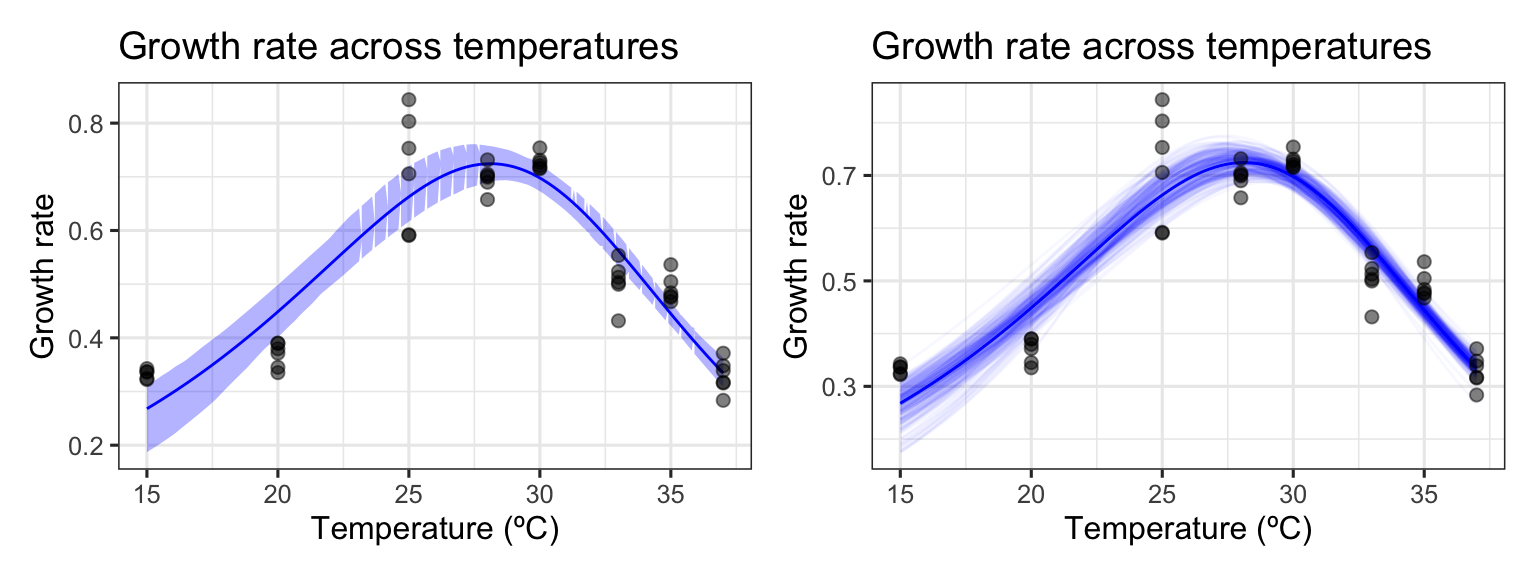
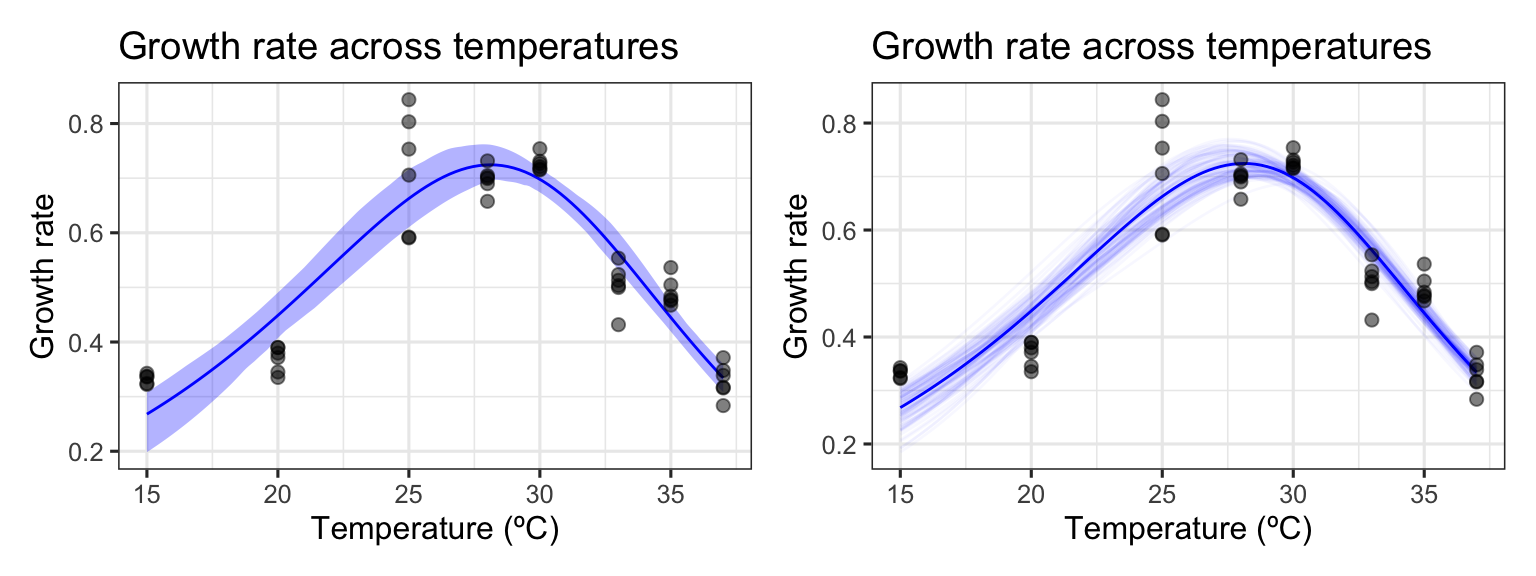
Update bootstrap vignette

diff --git a/docs/articles/bootstrapping_models.html b/docs/articles/bootstrapping_models.html
@@ -114,7 +114,7 @@
       <h1 data-toc-skip>Bootstrapping using rTPC</h1>
                         <h4 class="author">Daniel Padfield</h4>
             
-            <h4 class="date">2020-07-20</h4>
+            <h4 class="date">2020-07-22</h4>
       
       <small class="dont-index">Source: <a href="https://github.com/padpadpadpad/rTPC/blob/master/vignettes/bootstrapping_models.Rmd"><code>vignettes/bootstrapping_models.Rmd</code></a></small>
       <div class="hidden name"><code>bootstrapping_models.Rmd</code></div>
@@ -210,7 +210,7 @@
        <span class="kw">title</span> <span class="kw">=</span> <span class="st">'Growth rate across temperatures'</span>)</pre></body></html></div>
 <p><img src="bootstrapping_models_files/figure-html/fit_and_plot-1.png" width="576" style="display: block; margin: auto;"> Here we have the best fit to the data. If we want confidence bands around this prediction, we can get those by resampling the data a number of times. To illustrate this approach, I will create 250 bootstraps of the data and fit separate models to each using the <strong>modelr</strong> package. We will create a progress bar as used in <code>vignette(fit_many_curves)</code> to track the progress of the fit.</p>
 <div class="sourceCode" id="cb4"><html><body><pre class="r"><span class="co"># number of boots</span>
-<span class="no">n_boots</span> <span class="kw">&lt;-</span> <span class="fl">250</span>
+<span class="no">n_boots</span> <span class="kw">&lt;-</span> <span class="fl">100</span>
 
 <span class="co"># create new datasets and prepare them for fitting</span>
 <span class="no">d_boots</span> <span class="kw">&lt;-</span> <span class="fu">group_by</span>(<span class="no">d</span>, <span class="no">phage</span>) <span class="kw">%&gt;%</span>
@@ -243,7 +243,7 @@
                   <span class="kw">preds</span> <span class="kw">=</span>  <span class="fu">map2</span>(<span class="no">refit</span>, <span class="no">new_data</span>, ~<span class="fu"><a href="https://broom.tidymodels.org/reference/reexports.html">augment</a></span>(<span class="no">.x</span>, <span class="kw">newdata</span> <span class="kw">=</span> <span class="no">.y</span>)))</pre></body></html></div>
 <pre><code>[=========================================================] 100% 00:02:04</code></pre>
 <div class="sourceCode" id="cb6"><html><body><pre class="r"><span class="fu">glimpse</span>(<span class="no">d_boots</span>)
-<span class="co">#&gt; Rows: 250</span>
+<span class="co">#&gt; Rows: 100</span>
 <span class="co">#&gt; Columns: 6</span>
 <span class="co">#&gt; $ phage    &lt;chr&gt; "nophage", "nophage", "nophage", "nophage", "nophage", "noph…</span>
 <span class="co">#&gt; $ strap    &lt;list&gt; [&lt;data.frame[47 x 3]&gt;, &lt;data.frame[47 x 3]&gt;, &lt;data.frame[47…</span>
@@ -293,7 +293,7 @@
 <span class="no">d2</span> <span class="kw">&lt;-</span> <span class="fu"><a href="https://rdrr.io/r/stats/filter.html">filter</a></span>(<span class="no">chlorella_tpc</span>, <span class="no">curve_id</span> <span class="kw">==</span> <span class="fl">1</span>)
 
 <span class="co"># number of boots</span>
-<span class="no">n_boots</span> <span class="kw">&lt;-</span> <span class="fl">250</span>
+<span class="no">n_boots</span> <span class="kw">&lt;-</span> <span class="fl">100</span>
 
 <span class="co"># create new datasets and prepare them for fitting</span>
 <span class="no">d_boots</span> <span class="kw">&lt;-</span> <span class="fu">group_by</span>(<span class="no">d2</span>, <span class="no">curve_id</span>) <span class="kw">%&gt;%</span>
@@ -316,7 +316,7 @@
   <span class="fu">theme</span>(<span class="kw">strip.background</span> <span class="kw">=</span> <span class="fu">element_blank</span>(),
         <span class="kw">strip.text</span> <span class="kw">=</span> <span class="fu">element_text</span>(<span class="kw">hjust</span> <span class="kw">=</span> <span class="fl">0</span>))</pre></body></html></div>
 <p><img src="bootstrapping_models_files/figure-html/bootstrap_models2_plot-1.png" width="768" style="display: block; margin: auto;"></p>
-<p>By plotting some of the bootstrapped datasets, we can see which points of the original data were resampled (darker points). There are many different curves that can come from these resampled curves. This is likely to be a bigger problem when there is only one point beyond the optimum of the curve. We can see how much of a problem this is when we model the raw data and the bootstrapped data as before.</p>
+<p>By plotting some of the bootstrapped datasets, we can see which points of the original data were resampled (darker points). There are many different curves that can come from these resampled curves. This is likely to be a bigger problem when there is only one point beyond the optimum of the curve. We can see how much of a problem this is when we model the raw data and the bootstrapped data as before. As I cannot guarantee that there are not instances when there are only two or three different temperatures re-sampled, <strong>nls_multstart</strong> and some of the helper functions in <strong>rTPC</strong> such as <strong>get_start_vals</strong> may fail as the re-sampled data does not validate some of the assumptions of these functions. Consequently we create a <strong>nls_multstart_safe</strong> that returns NAs when <strong>nls_multstart</strong> errors, instead returning <code>NA</code> for that model fit.</p>
 <p>As before, the model predictions of each bootstrap are taken only from the range of temperatures of that bootstrapped dataset, not the range of values of the raw dataset.</p>
 <div class="sourceCode" id="cb9"><html><body><pre class="r"><span class="co"># fit Sharpe-Schoolfield model to raw data</span>
 <span class="no">d_fit</span> <span class="kw">&lt;-</span> <span class="fu">nest</span>(<span class="no">d2</span>, <span class="kw">data</span> <span class="kw">=</span> <span class="fu"><a href="https://rdrr.io/r/base/c.html">c</a></span>(<span class="no">temp</span>, <span class="no">rate</span>)) <span class="kw">%&gt;%</span>
@@ -352,28 +352,7 @@
                         <span class="kw">start_upper</span> <span class="kw">=</span> <span class="fu"><a href="../reference/get_start_vals.html">get_start_vals</a></span>(<span class="no">.x</span>$<span class="no">temp</span>, <span class="no">.x</span>$<span class="no">rate</span>, <span class="kw">model_name</span> <span class="kw">=</span> <span class="st">'sharpeschoolhigh_1981'</span>) + <span class="fl">10</span>,
                         <span class="kw">lower</span> <span class="kw">=</span> <span class="fu"><a href="../reference/get_lower_lims.html">get_lower_lims</a></span>(<span class="no">.x</span>$<span class="no">temp</span>, <span class="no">.x</span>$<span class="no">rate</span>, <span class="kw">model_name</span> <span class="kw">=</span> <span class="st">'sharpeschoolhigh_1981'</span>),
                         <span class="kw">upper</span> <span class="kw">=</span> <span class="fu"><a href="../reference/get_upper_lims.html">get_upper_lims</a></span>(<span class="no">.x</span>$<span class="no">temp</span>, <span class="no">.x</span>$<span class="no">rate</span>, <span class="kw">model_name</span> <span class="kw">=</span> <span class="st">'sharpeschoolhigh_1981'</span>),
-                        <span class="kw">supp_errors</span> <span class="kw">=</span> <span class="st">'Y'</span>,
-                        <span class="kw">convergence_count</span> <span class="kw">=</span> <span class="fl">FALSE</span>)))
-<span class="co">#&gt; Warning in runif(iter, .x, .y): NAs produced</span>
-
-<span class="co">#&gt; Warning in runif(iter, .x, .y): NAs produced</span>
-
-<span class="co">#&gt; Warning in runif(iter, .x, .y): NAs produced</span>
-
-<span class="co">#&gt; Warning in runif(iter, .x, .y): NAs produced</span>
-
-<span class="co">#&gt; Warning in runif(iter, .x, .y): NAs produced</span>
-
-<span class="co">#&gt; Warning in runif(iter, .x, .y): NAs produced</span>
-
-<span class="co">#&gt; Warning in runif(iter, .x, .y): NAs produced</span>
-
-<span class="co">#&gt; Warning in runif(iter, .x, .y): NAs produced</span>
-
-<span class="co">#&gt; Warning in runif(iter, .x, .y): NAs produced</span>
-
-<span class="co">#&gt; Warning in runif(iter, .x, .y): NAs produced</span>
-
+                        <span class="kw">supp_errors</span> <span class="kw">=</span> <span class="st">'Y'</span>)))
 <span class="co">#&gt; Warning in runif(iter, .x, .y): NAs produced</span>
 
 <span class="co">#&gt; Warning in runif(iter, .x, .y): NAs produced</span>
@@ -383,7 +362,7 @@
 <span class="co"># remove fits that are NA</span>
 <span class="no">d_boots</span> <span class="kw">&lt;-</span> <span class="fu"><a href="https://rdrr.io/r/stats/filter.html">filter</a></span>(<span class="no">d_boots</span>, !<span class="fu"><a href="https://rdrr.io/r/base/NA.html">is.na</a></span>(<span class="no">refit</span>))
 <span class="fu"><a href="https://rdrr.io/r/base/nrow.html">nrow</a></span>(<span class="no">d_boots</span>)
-<span class="co">#&gt; [1] 237</span>
+<span class="co">#&gt; [1] 100</span>
 
 <span class="co"># create new temperature data</span>
 <span class="no">d_boots</span> <span class="kw">&lt;-</span> <span class="fu">mutate</span>(<span class="no">d_boots</span>, <span class="kw">new_data</span> <span class="kw">=</span> <span class="fu">map</span>(<span class="no">strap</span>, ~<span class="fu">tibble</span>(<span class="kw">temp</span> <span class="kw">=</span> <span class="fu"><a href="https://rdrr.io/r/base/seq.html">seq</a></span>(<span class="fu"><a href="https://rdrr.io/r/base/Extremes.html">min</a></span>(<span class="no">.x</span>$<span class="no">temp</span>), <span class="fu"><a href="https://rdrr.io/r/base/Extremes.html">max</a></span>(<span class="no">.x</span>$<span class="no">temp</span>), <span class="kw">by</span> <span class="kw">=</span> <span class="fl">0.1</span>))),
@@ -404,12 +383,12 @@
 <span class="co">#&gt; # A tibble: 6 x 3</span>
 <span class="co">#&gt;    temp conf_lower conf_upper</span>
 <span class="co">#&gt;   &lt;dbl&gt;      &lt;dbl&gt;      &lt;dbl&gt;</span>
-<span class="co">#&gt; 1  16        0.114      0.331</span>
-<span class="co">#&gt; 2  16.1      0.116      0.333</span>
-<span class="co">#&gt; 3  16.2      0.118      0.335</span>
-<span class="co">#&gt; 4  16.3      0.121      0.338</span>
-<span class="co">#&gt; 5  16.4      0.123      0.340</span>
-<span class="co">#&gt; 6  16.5      0.125      0.343</span>
+<span class="co">#&gt; 1  16       0.0825      0.333</span>
+<span class="co">#&gt; 2  16.1     0.0853      0.335</span>
+<span class="co">#&gt; 3  16.2     0.0881      0.338</span>
+<span class="co">#&gt; 4  16.3     0.0909      0.340</span>
+<span class="co">#&gt; 5  16.4     0.0939      0.342</span>
+<span class="co">#&gt; 6  16.5     0.0961      0.345</span>
 
 <span class="co"># unnest all predictions</span>
 <span class="no">d_boot_preds</span> <span class="kw">&lt;-</span> <span class="fu">select</span>(<span class="no">d_boots</span>, <span class="no">boot_num</span>, <span class="no">preds</span>) <span class="kw">%&gt;%</span>
@@ -441,12 +420,149 @@
 
 <span class="no">p1</span> + <span class="no">p2</span></pre></body></html></div>
 <p><img src="bootstrapping_models_files/figure-html/bootstrap_models2-1.png" width="768" style="display: block; margin: auto;"></p>
-<p>As can be seen, bootstrapping-with-replacement with only a single point at each temperature can lead to a large variety of fits. In the second panel, we can see the variety of the curve fits, clustering around 4 possible paths for the decrease in rate beyond the optimum temperature. This makes the uncertainty around these predictions, and the derived estimate <span class="math inline">\(E_h\)</span> highly uncertain using this method of bootstrapping.</p>
+<p>As can be seen, bootstrapping-with-replacement with only a single point at each temperature can lead to a large variety of fits. In the second panel, we can see the variety of the curve fits, clustering around 4 possible paths for the decrease in rate beyond the optimum temperature. This makes the uncertainty around these predictions, and the estimate of <span class="math inline">\(E_h\)</span> is highly uncertain using this method of bootstrapping.</p>
 </div>
-<div id="resampling-residuals" class="section level1">
+<div id="re-sampling-residuals" class="section level1">
 <h1 class="hasAnchor">
-<a href="#resampling-residuals" class="anchor"></a>Resampling residuals</h1>
-<p>Re-sampling the data with replacement is the most common way of thinking about bootstrapping. However, bootstrapping ordinary least squares regression models is often done using bootstrapping residuals.</p>
+<a href="#re-sampling-residuals" class="anchor"></a>Re-sampling residuals</h1>
+<p>Re-sampling the data with replacement is the most common way of thinking about bootstrapping. However, bootstrapping ordinary least squares regression models is often done using bootstrapping residuals. This method - where the values of the predictors in a study remain fixed during re-sampling - is especially useful in a designed experiment where the values of the predictors are set by the experimenter. This is overwhelmingly the most common case when measuring thermal performance curves, where it is common to have only a single data point per temperature.</p>
+<p>Re-sampling residuals, at its heart, follows a simple set of steps:</p>
+<ol style="list-style-type: decimal">
+<li>Fit the model and for each data point, <span class="math inline">\(i\)</span>, retain the fitted values <span class="math inline">\(\hat{y_{i}}\)</span> and the residuals, <span class="math inline">\(\hat{e_{i}} = y_{i} - \hat{y_{i}}\)</span>
+</li>
+<li>For each data pair, (<span class="math inline">\(x_i\)</span>, <span class="math inline">\(y_i\)</span>), where <span class="math inline">\(x_i\)</span> is the measured temperature value, we add a randomly re-sampled residual, <span class="math inline">\(\hat{e}\)</span> to the fitted value <span class="math inline">\(\hat{y_i}\)</span>. This becomes the new <span class="math inline">\(y_i\)</span> value, such that <span class="math inline">\(y_i = \hat{y_i} + \hat{e}\)</span>. The new response variable is created based on the random re-allocation of the variation around the original model fit</li>
+<li>The model is refit using the newly created <span class="math inline">\(y_i\)</span> response variable</li>
+<li>Repeat steps 2 and 3 a number of times</li>
+</ol>
+<p>This method makes the assumption that the original model fit is a good representation of the data, and that the error terms in the model are normally distributed and independent. If the model is incorrectly specified – for example, if there is unmodelled non-linearity, non-constant error variance, or outliers – these characteristics will not carry over into the re-sampled data sets.</p>
+<p>Furthermore, there is evidence that the confidence intervals created using this method are often narrower than using the data re-sampling approach, which will increase the false positive error rate if confidence interval estimates are used as a proxy for significance testing. We consequently recommend using residual re-sampling with caution, but it can be very useful for the reasons above.</p>
+<p>We can demonstrate this approach using the <code>chlorella_tpc</code> data. We first create our new datasets using <strong>slice</strong> to create replicates of the fitted values and residuals, before re-sampling the residuals to create a new y value.</p>
+<div class="sourceCode" id="cb10"><html><body><pre class="r"><span class="co"># look at the original model fit</span>
+<span class="no">d_fit</span>
+<span class="co">#&gt; # A tibble: 1 x 8</span>
+<span class="co">#&gt;   curve_id growth_temp process  flux   data    sharpeschoolhigh new_data  preds </span>
+<span class="co">#&gt;      &lt;dbl&gt;       &lt;dbl&gt; &lt;chr&gt;    &lt;chr&gt;  &lt;list&gt;  &lt;list&gt;           &lt;list&gt;    &lt;list&gt;</span>
+<span class="co">#&gt; 1        1          20 acclima… respi… &lt;tibbl… &lt;nls&gt;            &lt;tibble … &lt;tibb…</span>
+
+<span class="co"># get preds for each point</span>
+<span class="no">preds</span> <span class="kw">&lt;-</span> <span class="no">d_fit</span> <span class="kw">%&gt;%</span>
+  <span class="fu">mutate</span>(<span class="no">.</span>, <span class="kw">pred</span> <span class="kw">=</span> <span class="fu">map</span>(<span class="no">sharpeschoolhigh</span>, <span class="no">augment</span>)) <span class="kw">%&gt;%</span>
+  <span class="fu">unnest</span>(<span class="no">pred</span>) <span class="kw">%&gt;%</span>
+  <span class="fu">select</span>(<span class="no">.</span>, <span class="no">curve_id</span>, <span class="no">temp</span>, <span class="no">.fitted</span>, <span class="no">.resid</span>)
+
+<span class="co"># define number of bootstraps</span>
+<span class="no">n_boots</span> <span class="kw">&lt;-</span> <span class="fl">100</span>
+
+<span class="co"># create new replicate dataframes</span>
+<span class="no">d_boots</span> <span class="kw">&lt;-</span> <span class="fu">group_by</span>(<span class="no">preds</span>, <span class="no">curve_id</span>) <span class="kw">%&gt;%</span>
+  <span class="fu">mutate</span>(<span class="no">.</span>, <span class="kw">n</span> <span class="kw">=</span> <span class="fl">1</span>:<span class="fu">n</span>()) <span class="kw">%&gt;%</span>
+  <span class="co"># creates nboot replicates of the dataset</span>
+  <span class="fu">slice</span>(<span class="fu"><a href="https://rdrr.io/r/base/rep.html">rep</a></span>(<span class="fl">1</span>:<span class="fu">n</span>(), <span class="kw">times</span> <span class="kw">=</span> <span class="no">n_boots</span>)) <span class="kw">%&gt;%</span>
+  <span class="fu">mutate</span>(<span class="no">.</span>, <span class="kw">boot_num</span> <span class="kw">=</span> <span class="fu"><a href="https://rdrr.io/r/base/rep.html">rep</a></span>(<span class="fl">1</span>:<span class="no">n_boots</span>, <span class="kw">each</span> <span class="kw">=</span> <span class="fu">n</span>()/<span class="no">n_boots</span>)) <span class="kw">%&gt;%</span>
+  <span class="fu">group_by</span>(<span class="no">boot_num</span>, <span class="no">curve_id</span>) <span class="kw">%&gt;%</span>
+  <span class="co"># sample the residuals of each fit and add to fitted values from the model</span>
+  <span class="fu">mutate</span>(<span class="no">.</span>, <span class="kw">new_y</span> <span class="kw">=</span> <span class="no">.fitted</span> + <span class="fu"><a href="https://rdrr.io/r/base/sample.html">sample</a></span>(<span class="no">.resid</span>, <span class="kw">replace</span> <span class="kw">=</span> <span class="fl">TRUE</span>))
+
+<span class="co"># plot ten of these alongside the actual data</span>
+<span class="no">d_boots_plot</span> <span class="kw">&lt;-</span> <span class="fu"><a href="https://rdrr.io/r/stats/filter.html">filter</a></span>(<span class="no">d_boots</span>, <span class="no">boot_num</span> <span class="kw">&lt;</span> <span class="fl">8</span>) <span class="kw">%&gt;%</span>
+  <span class="fu"><a href="https://rdrr.io/r/stats/filter.html">filter</a></span>(<span class="fu"><a href="https://rdrr.io/r/base/numeric.html">as.numeric</a></span>(<span class="no">boot_num</span>) <span class="kw">&lt;</span> <span class="fl">8</span>) <span class="kw">%&gt;%</span>
+  <span class="fu">mutate</span>(<span class="no">.</span>, <span class="kw">boot_num</span> <span class="kw">=</span> <span class="fu"><a href="https://rdrr.io/r/base/paste.html">paste</a></span>(<span class="st">'bootstrap'</span>, <span class="no">boot_num</span>, <span class="kw">sep</span> <span class="kw">=</span> <span class="st">' '</span>),
+         <span class="kw">rate</span> <span class="kw">=</span> <span class="no">new_y</span>) <span class="kw">%&gt;%</span>
+  <span class="fu">bind_rows</span>(<span class="no">.</span>, <span class="fu">mutate</span>(<span class="no">d2</span>, <span class="kw">boot_num</span> <span class="kw">=</span> <span class="st">'actual_data'</span>))
+
+<span class="co"># plot</span>
+<span class="fu">ggplot</span>(<span class="no">d_boots_plot</span>, <span class="fu">aes</span>(<span class="no">temp</span>, <span class="no">rate</span>)) +
+  <span class="fu">geom_point</span>() +
+  <span class="fu">geom_line</span>() +
+  <span class="fu">facet_wrap</span>(~<span class="no">boot_num</span>) +
+  <span class="fu">theme_bw</span>() +
+  <span class="fu">theme</span>(<span class="kw">strip.background</span> <span class="kw">=</span> <span class="fu">element_blank</span>(),
+        <span class="kw">strip.text</span> <span class="kw">=</span> <span class="fu">element_text</span>(<span class="kw">hjust</span> <span class="kw">=</span> <span class="fl">0</span>))</pre></body></html></div>
+<p><img src="bootstrapping_models_files/figure-html/residual_resample_data-1.png" width="768" style="display: block; margin: auto;"> The re-sampled data always has the same predictor values, but you can see that the values of the response variable have changed.</p>
+<p>We can now model these as we have done before.</p>
+<div class="sourceCode" id="cb11"><html><body><pre class="r"><span class="co"># start progress bar and estimate time it will take</span>
+<span class="no">number_of_models</span> <span class="kw">&lt;-</span> <span class="fl">1</span>
+
+<span class="co"># setup progress bar</span>
+<span class="no">pb</span> <span class="kw">&lt;-</span> <span class="kw pkg">progress</span><span class="kw ns">::</span><span class="no"><a href="https://rdrr.io/pkg/progress/man/progress_bar.html">progress_bar</a></span>$<span class="fu">new</span>(<span class="kw">total</span> <span class="kw">=</span> <span class="no">n_boots</span>*<span class="no">number_of_models</span>,
+                                 <span class="kw">clear</span> <span class="kw">=</span> <span class="fl">FALSE</span>,
+                                 <span class="kw">format</span> <span class="kw">=</span><span class="st">"[:bar] :percent :elapsedfull"</span>)
+
+<span class="no">d_boots</span> <span class="kw">&lt;-</span> <span class="fu">select</span>(<span class="no">d_boots</span>, <span class="no">curve_id</span>, <span class="no">temp</span>, <span class="no">new_y</span>, <span class="no">boot_num</span>) <span class="kw">%&gt;%</span>
+  <span class="fu">nest</span>(<span class="no">.</span>, <span class="kw">data</span> <span class="kw">=</span> <span class="fu"><a href="https://rdrr.io/r/base/c.html">c</a></span>(<span class="no">temp</span>, <span class="no">new_y</span>)) <span class="kw">%&gt;%</span>
+  <span class="co"># fit the model to each bootstrapped dataset</span>
+  <span class="fu">mutate</span>(<span class="no">.</span>, <span class="kw">refit</span> <span class="kw">=</span> <span class="kw pkg">purrr</span><span class="kw ns">::</span><span class="fu"><a href="https://purrr.tidyverse.org/reference/map.html">map</a></span>(<span class="no">data</span>, ~<span class="fu">nls_multstart_safe</span>(<span class="no">new_y</span>~<span class="fu"><a href="../reference/sharpeschoolhigh_1981.html">sharpeschoolhigh_1981</a></span>(<span class="kw">temp</span> <span class="kw">=</span> <span class="no">temp</span>, <span class="no">r_tref</span>,<span class="no">e</span>,<span class="no">eh</span>,<span class="no">th</span>, <span class="kw">tref</span> <span class="kw">=</span> <span class="fl">15</span>),
+                        <span class="kw">data</span> <span class="kw">=</span> <span class="no">.x</span>,
+                        <span class="kw">iter</span> <span class="kw">=</span> <span class="fl">200</span>,
+                        <span class="kw">start_lower</span> <span class="kw">=</span> <span class="fu"><a href="../reference/get_start_vals.html">get_start_vals</a></span>(<span class="no">.x</span>$<span class="no">temp</span>, <span class="no">.x</span>$<span class="no">new_y</span>, <span class="kw">model_name</span> <span class="kw">=</span> <span class="st">'sharpeschoolhigh_1981'</span>) - <span class="fl">10</span>,
+                        <span class="kw">start_upper</span> <span class="kw">=</span> <span class="fu"><a href="../reference/get_start_vals.html">get_start_vals</a></span>(<span class="no">.x</span>$<span class="no">temp</span>, <span class="no">.x</span>$<span class="no">new_y</span>, <span class="kw">model_name</span> <span class="kw">=</span> <span class="st">'sharpeschoolhigh_1981'</span>) + <span class="fl">10</span>,
+                        <span class="kw">lower</span> <span class="kw">=</span> <span class="fu"><a href="../reference/get_lower_lims.html">get_lower_lims</a></span>(<span class="no">.x</span>$<span class="no">temp</span>, <span class="no">.x</span>$<span class="no">new_y</span>, <span class="kw">model_name</span> <span class="kw">=</span> <span class="st">'sharpeschoolhigh_1981'</span>),
+                        <span class="kw">upper</span> <span class="kw">=</span> <span class="fu"><a href="../reference/get_upper_lims.html">get_upper_lims</a></span>(<span class="no">.x</span>$<span class="no">temp</span>, <span class="no">.x</span>$<span class="no">new_y</span>, <span class="kw">model_name</span> <span class="kw">=</span> <span class="st">'sharpeschoolhigh_1981'</span>),
+                        <span class="kw">supp_errors</span> <span class="kw">=</span> <span class="st">'Y'</span>)))
+
+<span class="co"># remove fits that are NA</span>
+<span class="no">d_boots</span> <span class="kw">&lt;-</span> <span class="fu"><a href="https://rdrr.io/r/stats/filter.html">filter</a></span>(<span class="no">d_boots</span>, !<span class="fu"><a href="https://rdrr.io/r/base/NA.html">is.na</a></span>(<span class="no">refit</span>))
+<span class="fu"><a href="https://rdrr.io/r/base/nrow.html">nrow</a></span>(<span class="no">d_boots</span>)
+<span class="co">#&gt; [1] 100</span>
+
+<span class="co"># create new temperature data</span>
+<span class="no">d_boots</span> <span class="kw">&lt;-</span> <span class="fu">mutate</span>(<span class="no">d_boots</span>, <span class="kw">new_data</span> <span class="kw">=</span> <span class="fu">map</span>(<span class="no">data</span>, ~<span class="fu">tibble</span>(<span class="kw">temp</span> <span class="kw">=</span> <span class="fu"><a href="https://rdrr.io/r/base/seq.html">seq</a></span>(<span class="fu"><a href="https://rdrr.io/r/base/Extremes.html">min</a></span>(<span class="no">.x</span>$<span class="no">temp</span>), <span class="fu"><a href="https://rdrr.io/r/base/Extremes.html">max</a></span>(<span class="no">.x</span>$<span class="no">temp</span>), <span class="kw">by</span> <span class="kw">=</span> <span class="fl">0.1</span>))),
+                  <span class="co"># predict over that data</span>
+                  <span class="kw">preds</span> <span class="kw">=</span>  <span class="fu">map2</span>(<span class="no">refit</span>, <span class="no">new_data</span>, ~<span class="fu"><a href="https://broom.tidymodels.org/reference/reexports.html">augment</a></span>(<span class="no">.x</span>, <span class="kw">newdata</span> <span class="kw">=</span> <span class="no">.y</span>)))
+
+<span class="co"># calculate bootstrapped confidence intervals</span>
+<span class="no">d_conf</span> <span class="kw">&lt;-</span> <span class="fu">select</span>(<span class="no">d_boots</span>, <span class="no">preds</span>) <span class="kw">%&gt;%</span>
+  <span class="fu">unnest</span>(<span class="no">preds</span>) <span class="kw">%&gt;%</span>
+  <span class="fu">mutate</span>(<span class="kw">temp</span> <span class="kw">=</span> <span class="fu"><a href="https://rdrr.io/r/base/Round.html">round</a></span>(<span class="no">temp</span>, <span class="fl">1</span>)) <span class="kw">%&gt;%</span>
+  <span class="fu">group_by</span>(<span class="no">temp</span>) <span class="kw">%&gt;%</span>
+  <span class="fu">summarise</span>(<span class="kw">conf_lower</span> <span class="kw">=</span> <span class="fu"><a href="https://rdrr.io/r/stats/quantile.html">quantile</a></span>(<span class="no">.fitted</span>, <span class="fl">0.025</span>),
+         <span class="kw">conf_upper</span> <span class="kw">=</span> <span class="fu"><a href="https://rdrr.io/r/stats/quantile.html">quantile</a></span>(<span class="no">.fitted</span>, <span class="fl">0.975</span>)) <span class="kw">%&gt;%</span>
+  <span class="fu">ungroup</span>()
+<span class="co">#&gt; Adding missing grouping variables: `curve_id`, `boot_num`</span>
+<span class="co">#&gt; `summarise()` ungrouping output (override with `.groups` argument)</span>
+
+<span class="fu"><a href="https://rdrr.io/r/utils/head.html">head</a></span>(<span class="no">d_conf</span>)
+<span class="co">#&gt; # A tibble: 6 x 3</span>
+<span class="co">#&gt;    temp conf_lower conf_upper</span>
+<span class="co">#&gt;   &lt;dbl&gt;      &lt;dbl&gt;      &lt;dbl&gt;</span>
+<span class="co">#&gt; 1  16        0.189      0.421</span>
+<span class="co">#&gt; 2  16.1      0.191      0.424</span>
+<span class="co">#&gt; 3  16.2      0.193      0.427</span>
+<span class="co">#&gt; 4  16.3      0.195      0.429</span>
+<span class="co">#&gt; 5  16.4      0.197      0.432</span>
+<span class="co">#&gt; 6  16.5      0.199      0.435</span>
+
+<span class="co"># unnest all predictions</span>
+<span class="no">d_boot_preds</span> <span class="kw">&lt;-</span> <span class="fu">select</span>(<span class="no">d_boots</span>, <span class="no">boot_num</span>, <span class="no">preds</span>) <span class="kw">%&gt;%</span>
+  <span class="fu">unnest</span>(<span class="no">preds</span>)
+<span class="co">#&gt; Adding missing grouping variables: `curve_id`</span>
+
+<span class="co"># unnest predictions</span>
+<span class="no">d_preds</span> <span class="kw">&lt;-</span> <span class="fu">select</span>(<span class="no">d_fit</span>, <span class="no">preds</span>) <span class="kw">%&gt;%</span>
+  <span class="fu">unnest</span>(<span class="no">preds</span>)
+
+<span class="co"># plot bootstrapped CIs</span>
+<span class="no">p1</span> <span class="kw">&lt;-</span> <span class="fu">ggplot</span>() +
+  <span class="fu">geom_line</span>(<span class="fu">aes</span>(<span class="no">temp</span>, <span class="no">.fitted</span>), <span class="no">d_preds</span>, <span class="kw">col</span> <span class="kw">=</span> <span class="st">'blue'</span>) +
+  <span class="fu">geom_ribbon</span>(<span class="fu">aes</span>(<span class="no">temp</span>, <span class="kw">ymin</span> <span class="kw">=</span> <span class="no">conf_lower</span>, <span class="kw">ymax</span> <span class="kw">=</span> <span class="no">conf_upper</span>), <span class="no">d_conf</span>, <span class="kw">fill</span> <span class="kw">=</span> <span class="st">'blue'</span>, <span class="kw">alpha</span> <span class="kw">=</span> <span class="fl">0.3</span>) +
+  <span class="fu">geom_point</span>(<span class="fu">aes</span>(<span class="no">temp</span>, <span class="no">rate</span>), <span class="no">d2</span>, <span class="kw">size</span> <span class="kw">=</span> <span class="fl">2</span>) +
+  <span class="fu">theme_bw</span>(<span class="kw">base_size</span> <span class="kw">=</span> <span class="fl">12</span>) +
+  <span class="fu">labs</span>(<span class="kw">x</span> <span class="kw">=</span> <span class="st">'Temperature (ºC)'</span>,
+       <span class="kw">y</span> <span class="kw">=</span> <span class="st">'Growth rate'</span>,
+       <span class="kw">title</span> <span class="kw">=</span> <span class="st">'Growth rate across temperatures'</span>)
+
+<span class="co"># plot bootstrapped predictions</span>
+<span class="no">p2</span> <span class="kw">&lt;-</span> <span class="fu">ggplot</span>() +
+  <span class="fu">geom_line</span>(<span class="fu">aes</span>(<span class="no">temp</span>, <span class="no">.fitted</span>), <span class="no">d_preds</span>, <span class="kw">col</span> <span class="kw">=</span> <span class="st">'blue'</span>) +
+  <span class="fu">geom_line</span>(<span class="fu">aes</span>(<span class="no">temp</span>, <span class="no">.fitted</span>, <span class="kw">group</span> <span class="kw">=</span> <span class="no">boot_num</span>), <span class="no">d_boot_preds</span>, <span class="kw">col</span> <span class="kw">=</span> <span class="st">'blue'</span>, <span class="kw">alpha</span> <span class="kw">=</span> <span class="fl">0.03</span>) +
+  <span class="fu">geom_point</span>(<span class="fu">aes</span>(<span class="no">temp</span>, <span class="no">rate</span>), <span class="no">d2</span>, <span class="kw">size</span> <span class="kw">=</span> <span class="fl">2</span>) +
+  <span class="fu">theme_bw</span>(<span class="kw">base_size</span> <span class="kw">=</span> <span class="fl">12</span>) +
+  <span class="fu">labs</span>(<span class="kw">x</span> <span class="kw">=</span> <span class="st">'Temperature (ºC)'</span>,
+       <span class="kw">y</span> <span class="kw">=</span> <span class="st">'Growth rate'</span>,
+       <span class="kw">title</span> <span class="kw">=</span> <span class="st">'Growth rate across temperatures'</span>)
+
+<span class="no">p1</span> + <span class="no">p2</span></pre></body></html></div>
+<p><img src="bootstrapping_models_files/figure-html/residual_resample_model-1.png" width="768" style="display: block; margin: auto;"></p>
 <hr>
 <p>NB The Padfield _et al.__ analysis actually uses a Bayesian approach to fit thermal performance curves, quantify uncertainty, and estimate derived parameters. This approach is powerful and flexible, and becoming easier to use with the incredible development of the R package <a href="https://github.com/paul-buerkner/brms"><strong>brms</strong></a>. Examples of using <strong>brms</strong> to model thermal performance curves can be found on the <a href="https://github.com/padpadpadpad/Padfield_2019_ISME_bact_phage_temperature">GitHub repository</a> of the paper</p>
 <hr>
@@ -466,7 +582,9 @@
 
   <div class="col-md-3 hidden-xs hidden-sm" id="pkgdown-sidebar">
 
-      </div>
+        <nav id="toc" data-toggle="toc"><h2 data-toc-skip>Contents</h2>
+    </nav>
+</div>
 
 </div>
 
